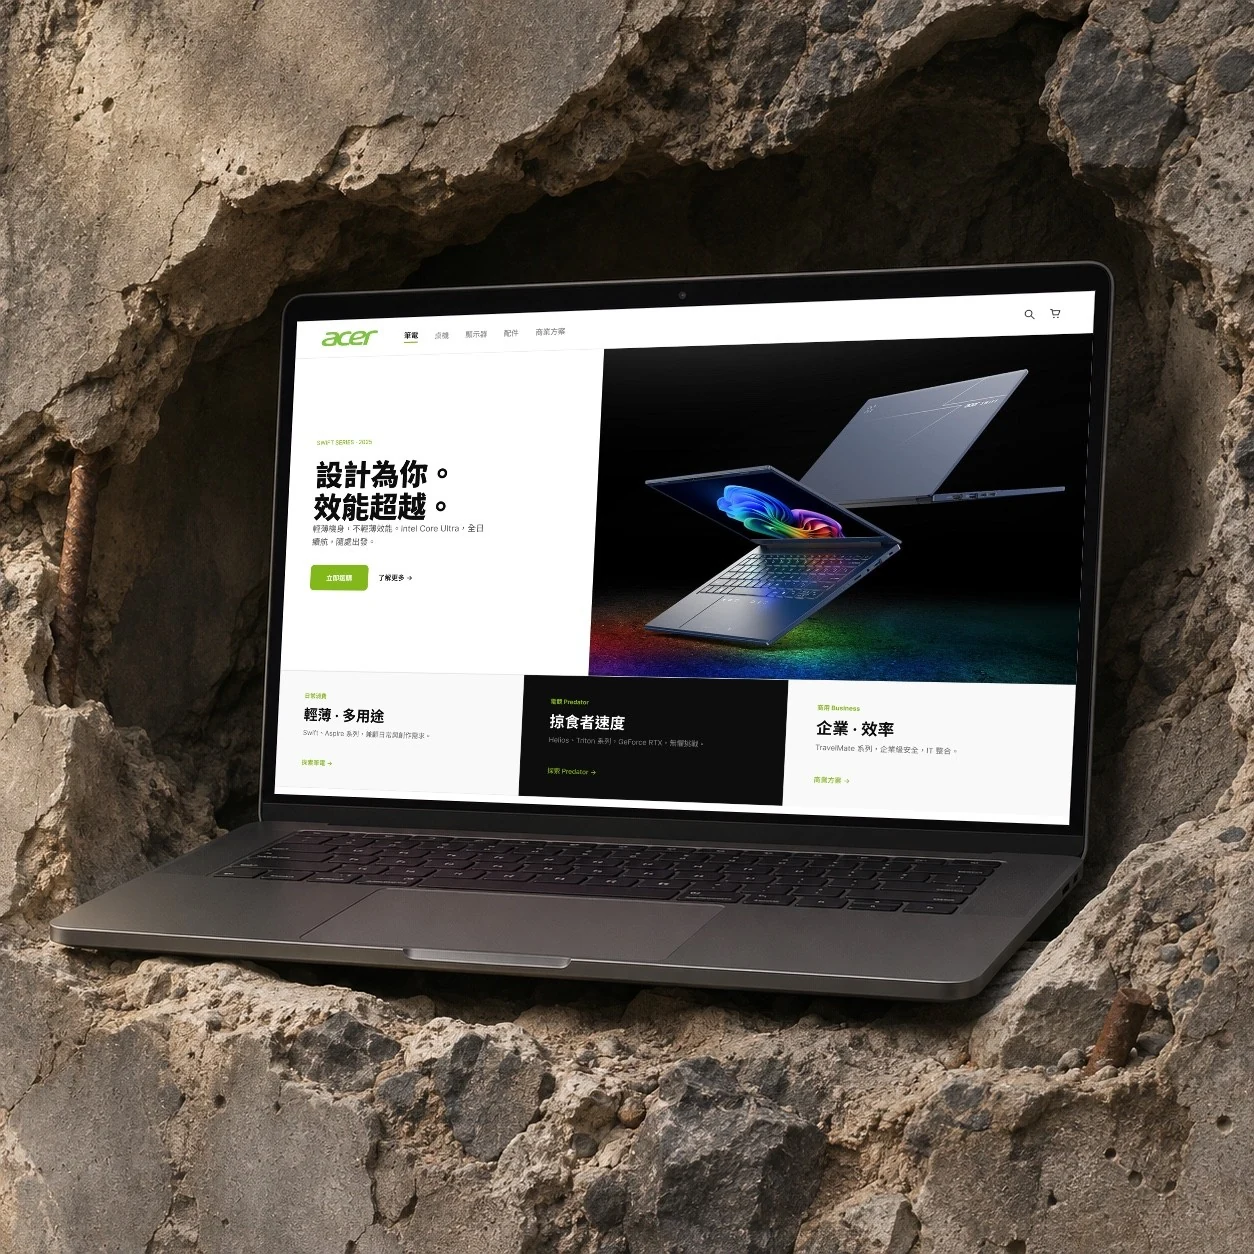
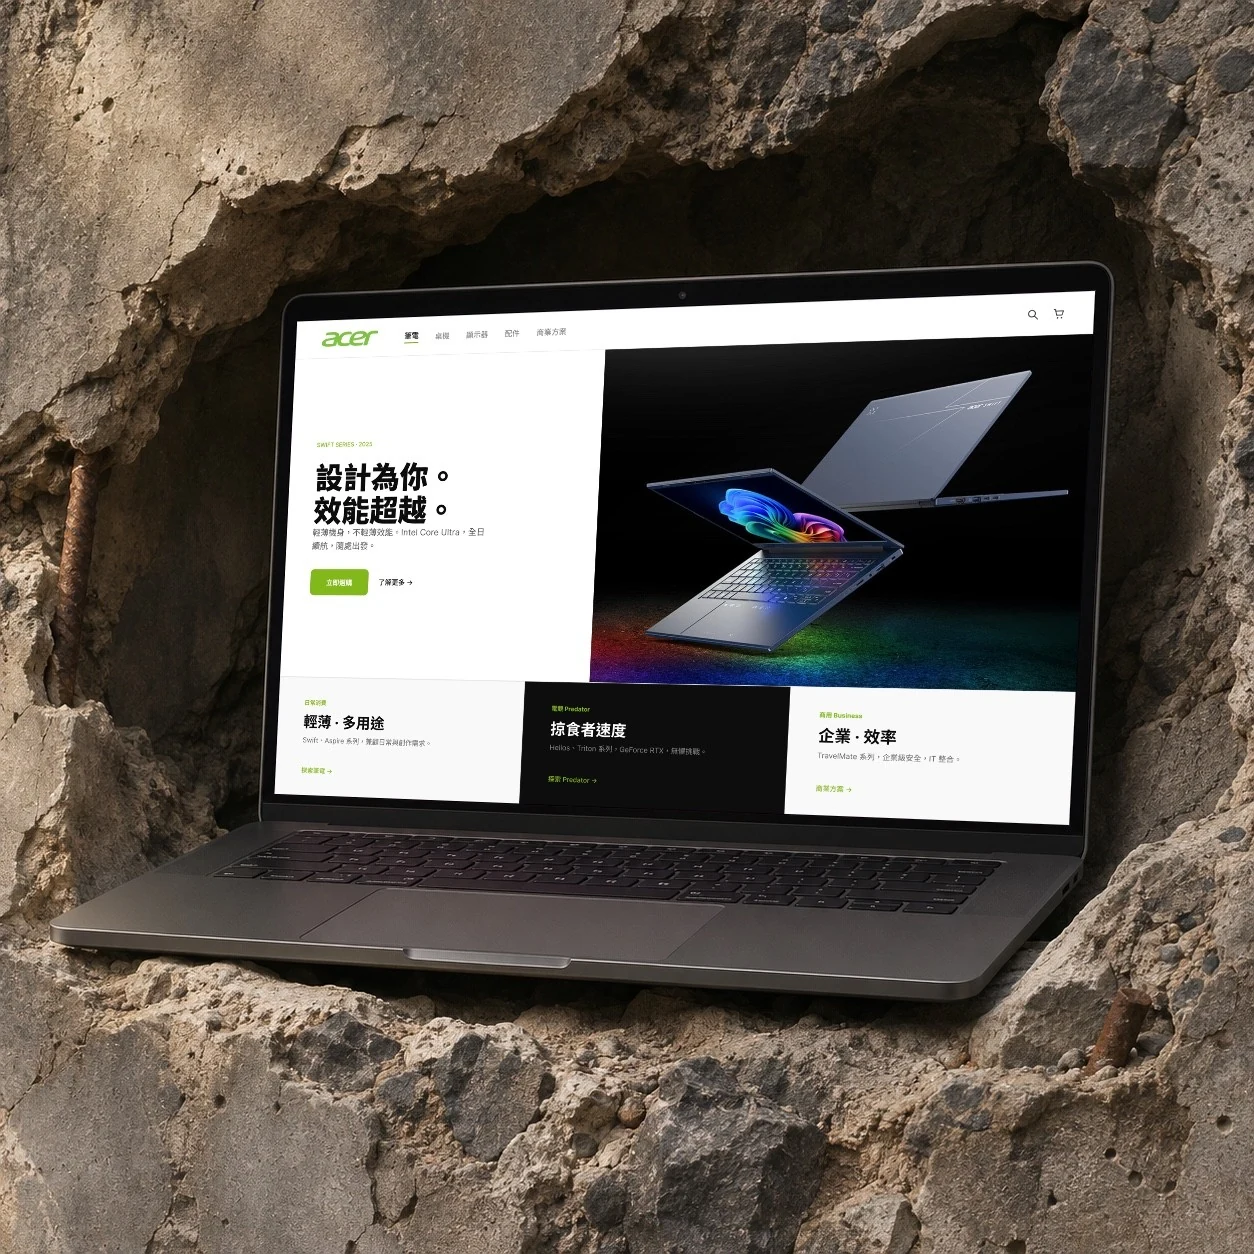
首頁作品封面改為灰階，hover 才上色；更新 Acer 與 Michelin 的 mockup
- Acer 與 Michelin 換成新版 mockup（場景相同，螢幕內容更新）。
- .work-card img 預設 grayscale(1)，hover 與 focus-visible 時回到原色，
  filter 併入既有的 transform transition。
- 只在 (hover: hover) and (pointer: fine) 的裝置上灰階。觸控沒有 hover，
  卡片一點就跳頁，灰階在那裡會變成永遠看不到原色。
- prefers-reduced-motion 時不做過場。

diff --git a/css/style.css b/css/style.css
@@ -472,11 +472,29 @@ footer {
   height: 100%;
   object-fit: cover;
   transform: scale(var(--zoom));
-  transition: transform 0.6s cubic-bezier(.16,1,.3,1);
+  filter: grayscale(1);
+  transition: transform 0.6s cubic-bezier(.16,1,.3,1),
+              filter 0.45s ease;
   display: block;
 }
 
 .work-card:hover img { transform: scale(calc(var(--zoom) * 1.03)); }
+
+/* 封面預設灰階，滑鼠移上去才上色。
+   只在真的有 hover 的裝置上灰階——觸控沒有 hover，
+   卡片一點就跳頁，灰階會變成永遠看不到原色。 */
+@media (hover: hover) and (pointer: fine) {
+  .work-card:hover img,
+  .work-card:focus-visible img { filter: grayscale(0); }
+}
+
+@media (hover: none), (pointer: coarse) {
+  .work-card img { filter: grayscale(0); }
+}
+
+@media (prefers-reduced-motion: reduce) {
+  .work-card img { transition: none; }
+}
 
 /* object-fit: cover 會裁掉溢出的那一邊，每張圖要保留的重點不同。 */
 .work-card img.fit-top  { object-position: center top; }

diff --git a/case-acer.html b/case-acer.html
@@ -7,7 +7,7 @@
   <meta name="description" content="Acer 官網概念重設計 — 資訊架構收斂、token-based 設計系統與比較功能互動原型。Fuyu Tsai UI/UX Case Study。">
   <link rel="preconnect" href="https://fonts.googleapis.com">
   <link href="https://fonts.googleapis.com/css2?family=Noto+Sans+TC:wght@400;500&display=swap" rel="stylesheet">
-  <link rel="stylesheet" href="css/style.css?v=20261113g">
+  <link rel="stylesheet" href="css/style.css?v=20261113h">
 </head>
 <body>
 
@@ -397,6 +397,6 @@
 
 <script src="https://cdn.jsdelivr.net/npm/lenis@1.3.26/dist/lenis.min.js"></script>
 <script src="js/main.js"></script>
-<script src="js/lightbox.js?v=20261113g"></script>
+<script src="js/lightbox.js?v=20261113h"></script>
 </body>
 </html>

diff --git a/case-michelin.html b/case-michelin.html
@@ -7,7 +7,7 @@
   <meta name="description" content="Michelin Guide 概念重設計 — 餐廳搜尋、列表、詳細頁與三步驟訂位流程。Fuyu Tsai UI/UX Case Study。">
   <link rel="preconnect" href="https://fonts.googleapis.com">
   <link href="https://fonts.googleapis.com/css2?family=Noto+Sans+TC:wght@400;500&display=swap" rel="stylesheet">
-  <link rel="stylesheet" href="css/style.css?v=20261113g">
+  <link rel="stylesheet" href="css/style.css?v=20261113h">
 </head>
 <body>
 
@@ -308,6 +308,6 @@
 
 <script src="https://cdn.jsdelivr.net/npm/lenis@1.3.26/dist/lenis.min.js"></script>
 <script src="js/main.js"></script>
-<script src="js/lightbox.js?v=20261113g"></script>
+<script src="js/lightbox.js?v=20261113h"></script>
 </body>
 </html>

diff --git a/case-iii-awards.html b/case-iii-awards.html
@@ -7,7 +7,7 @@
   <meta name="description" content="III Awards Agency — 為國際獎項顧問服務建立獨立品牌與四頁響應式網站。Fuyu Tsai UI/UX Case Study。">
   <link rel="preconnect" href="https://fonts.googleapis.com">
   <link href="https://fonts.googleapis.com/css2?family=Noto+Sans+TC:wght@400;500&display=swap" rel="stylesheet">
-  <link rel="stylesheet" href="css/style.css?v=20261113g">
+  <link rel="stylesheet" href="css/style.css?v=20261113h">
 </head>
 <body>
 
@@ -317,6 +317,6 @@
 
 <script src="https://cdn.jsdelivr.net/npm/lenis@1.3.26/dist/lenis.min.js"></script>
 <script src="js/main.js"></script>
-<script src="js/lightbox.js?v=20261113g"></script>
+<script src="js/lightbox.js?v=20261113h"></script>
 </body>
 </html>

diff --git a/case-iii-design.html b/case-iii-design.html
@@ -7,7 +7,7 @@
   <meta name="description" content="III Design Studio — 品牌識別、視覺系統到官網的完整設計路徑。Fuyu Tsai UI/UX Case Study。">
   <link rel="preconnect" href="https://fonts.googleapis.com">
   <link href="https://fonts.googleapis.com/css2?family=Noto+Sans+TC:wght@400;500&display=swap" rel="stylesheet">
-  <link rel="stylesheet" href="css/style.css?v=20261113g">
+  <link rel="stylesheet" href="css/style.css?v=20261113h">
 </head>
 <body>
 
@@ -139,6 +139,6 @@
 
 <script src="https://cdn.jsdelivr.net/npm/lenis@1.3.26/dist/lenis.min.js"></script>
 <script src="js/main.js"></script>
-<script src="js/lightbox.js?v=20261113g"></script>
+<script src="js/lightbox.js?v=20261113h"></script>
 </body>
 </html>

diff --git a/index.html b/index.html
@@ -7,7 +7,7 @@
   <meta name="description" content="蔡馥伃 Fuyu Tsai — UI/UX Designer。六年品牌與視覺設計背景，專注網站介面、設計系統與響應式設計。">
   <link rel="preconnect" href="https://fonts.googleapis.com">
   <link href="https://fonts.googleapis.com/css2?family=Noto+Sans+TC:wght@400;500&display=swap" rel="stylesheet">
-  <link rel="stylesheet" href="css/style.css?v=20261113g">
+  <link rel="stylesheet" href="css/style.css?v=20261113h">
   <script type="importmap">
   { "imports": { "three": "https://cdn.jsdelivr.net/npm/three@0.180.0/build/three.module.js" } }
   </script>

diff --git a/about.html b/about.html
@@ -7,7 +7,7 @@
   <meta name="description" content="關於蔡馥伃 Fuyu Tsai — UI/UX Designer。六年品牌與視覺設計經驗，專注網站介面、設計系統與響應式設計。">
   <link rel="preconnect" href="https://fonts.googleapis.com">
   <link href="https://fonts.googleapis.com/css2?family=Noto+Sans+TC:wght@400;500&display=swap" rel="stylesheet">
-  <link rel="stylesheet" href="css/style.css?v=20261113g">
+  <link rel="stylesheet" href="css/style.css?v=20261113h">
 </head>
 <body>
 
